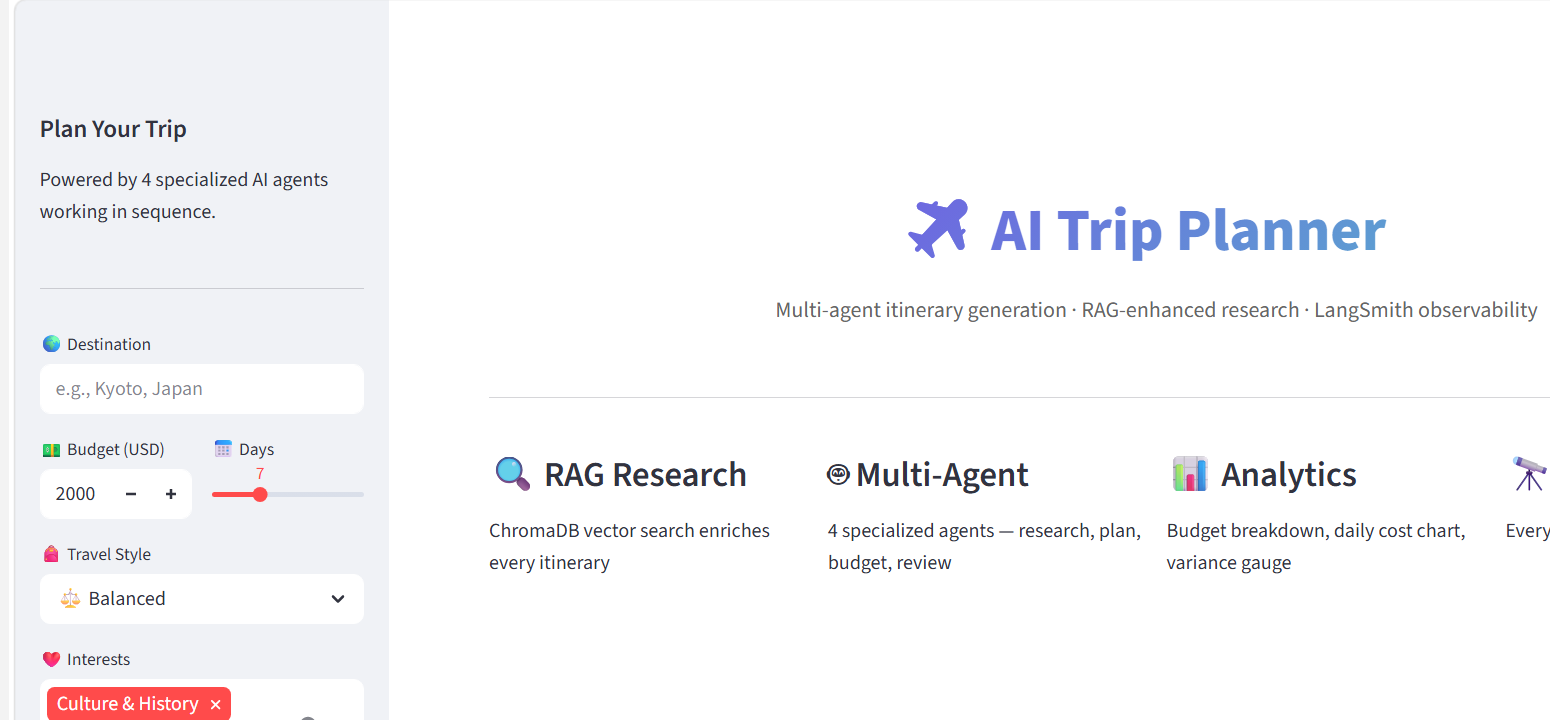
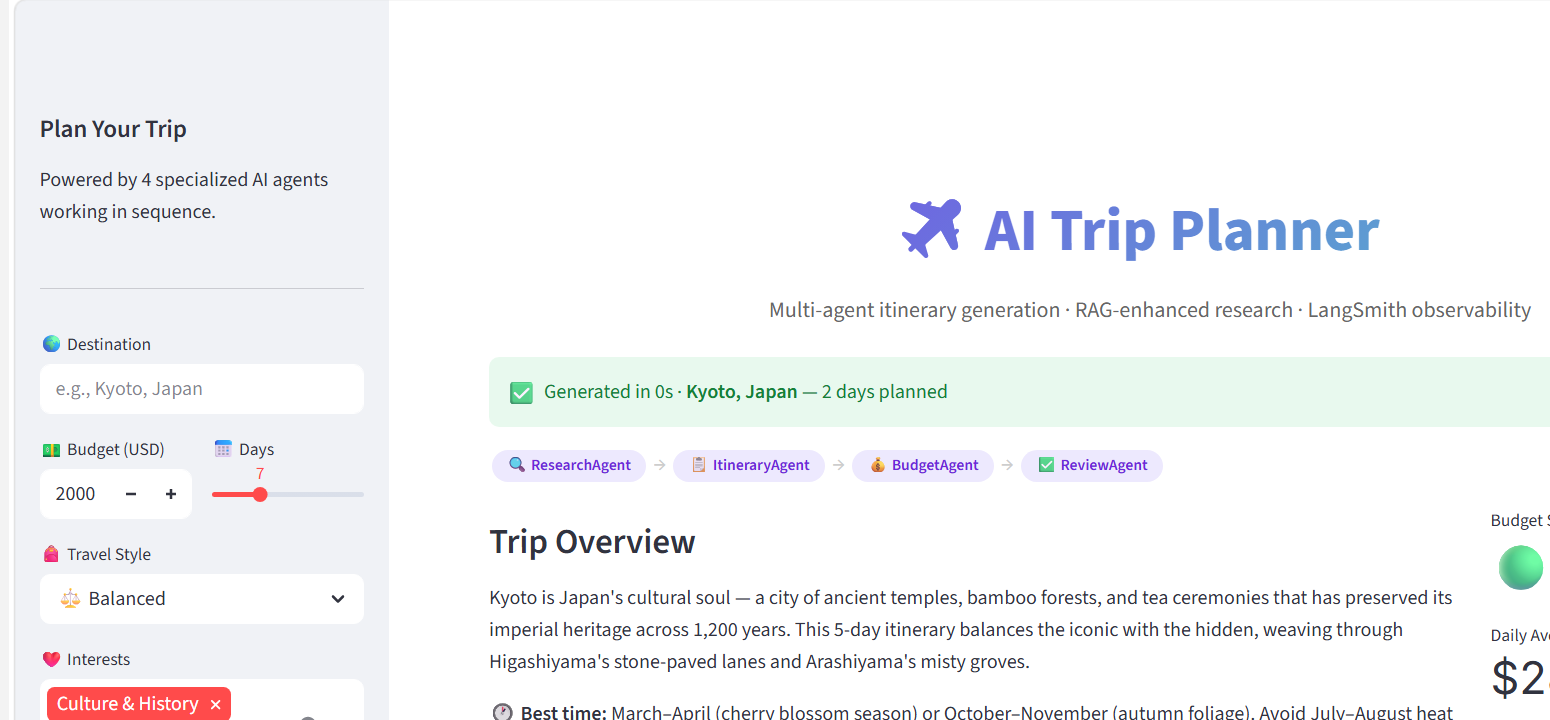
feat(demo): add demo mode for itinerary preview + update frontend travel styles
backend/main.py:
- Add ?demo=true query param to /generate-itinerary that returns a fully
  populated Kyoto, Japan itinerary without calling the Groq API
  (useful for screenshots, demos, and local testing without a key)

frontend/app.py:
- Add ?demo=true URL param handler in Streamlit — auto-loads demo itinerary
  on page load without user interaction
- Add 'luxury' and 'eco' travel styles to the sidebar selectbox
- Update call_backend() to forward demo flag to the API

backend/config.py, vectorstore.py, requirements.txt:
- Committed Groq migration changes (groq_api_key, groq_model, local embeddings)
  that were unstaged from the earlier migration

docs/screenshots/itinerary.png:
- Retake screenshot showing real itinerary output: 4-agent pipeline badges
  (ResearchAgent → ItineraryAgent → BudgetAgent → ReviewAgent), Trip Overview
  text, budget metrics — far more impressive than the empty form

diff --git a/backend/main.py b/backend/main.py
@@ -109,8 +109,82 @@ def popular_destinations(region: str | None = None, max_budget: float | None = N
     return {"count": len(results), "destinations": results}
 
 
+_DEMO_ITINERARY = {
+    "destination": "Kyoto, Japan",
+    "summary": "Kyoto is Japan's cultural soul — a city of ancient temples, bamboo forests, and tea ceremonies that has preserved its imperial heritage across 1,200 years. This 5-day itinerary balances the iconic with the hidden, weaving through Higashiyama's stone-paved lanes and Arashiyama's misty groves.",
+    "best_time_to_visit": "March–April (cherry blossom season) or October–November (autumn foliage). Avoid July–August heat and Golden Week crowds.",
+    "getting_around": "IC card (Suica/ICOCA) covers buses and the subway. Day bus passes (¥700) are great for temple-heavy days. Rent a bicycle in Arashiyama — flat terrain and stunning scenery.",
+    "days": [
+        {
+            "day": 1, "theme": "Higashiyama — The Old City at Dusk",
+            "morning": {"activity": "Fushimi Inari Shrine", "description": "Hike the lower torii gates of Fushimi Inari before the crowds arrive. The vermillion tunnels wind 4km up the mountain, each gate donated by a Japanese business. The summit offers a panoramic city view.", "location": "Fushimi Inari Taisha", "cost": 0, "duration": "2.5 hours", "tips": "Go before 8am — the lower gates are tourist-free and the light is golden."},
+            "afternoon": {"activity": "Kiyomizudera Temple + Higashiyama Walk", "description": "Kiyomizudera's famous wooden stage juts from the mountainside with views over the city canopy. Walk downhill through Sannenzaka and Ninenzaka — stone-paved lanes lined with Meiji-era machiya shops.", "location": "Kiyomizudera, Higashiyama", "cost": 500, "duration": "3 hours", "tips": "The shops sell Kyoto's best matcha soft serve (¥400). Skip the tourist ones — Kagizen Yoshifusa has the real thing."},
+            "evening": {"activity": "Gion District Night Walk", "description": "Wander Hanamikoji Street at dusk when the ochaya (tea houses) light up paper lanterns and geiko move between appointments. The narrow Shirakawa canal reflects the willow trees in the lamplight.", "location": "Gion, Hanamikoji Street", "cost": 0, "duration": "1.5 hours", "tips": "Don't photograph geisha without permission — it's considered deeply rude. Observe from distance."},
+            "meals": {
+                "breakfast": {"name": "Nakamura-ro", "cuisine": "Japanese", "cost": 12, "why": "500-year-old tea house serving matcha and wagashi — the ideal Kyoto entry point"},
+                "lunch": {"name": "Omen Noodles", "cuisine": "Japanese udon", "cost": 14, "why": "Queue-worthy udon with seasonal toppings, right off the Philosopher's Path"},
+                "dinner": {"name": "Gion Kappa", "cuisine": "Kappo", "cost": 35, "why": "Counter dining, chef's seasonal menu, fraction of the price of comparable places"}
+            },
+            "transport": "Bus 5 from Kyoto Station to Fushimi Inari, then bus 202 to Higashiyama", "daily_total": 162, "insider_tip": "The stone path between Kiyomizudera and Maruyama Park is completely empty after 7pm — magical."
+        },
+        {
+            "day": 2, "theme": "Arashiyama — Bamboo, Rivers, and Zen",
+            "morning": {"activity": "Arashiyama Bamboo Grove + Okochi Sanso", "description": "The bamboo grove at dawn is genuinely transcendent — the 15-metre stalks creak in the wind and filter light into shifting green columns. Okochi Sanso villa next door (¥1,000) includes tea and a perfectly raked garden.", "location": "Arashiyama Bamboo Grove", "cost": 1000, "duration": "2 hours", "tips": "The grove is 15 minutes long. Walk through once for the experience, then double back — crowds flow one direction."},
+            "afternoon": {"activity": "Tenryuji Temple + Boat on the Oi River", "description": "Tenryuji's Zen garden is a UNESCO World Heritage site — the borrowed scenery technique frames Arashiyama mountain through the pond. Rent a rowboat (¥1,500/30min) on the Oi River for an entirely different perspective.", "location": "Tenryuji, Arashiyama", "cost": 500, "duration": "3 hours", "tips": "The rear garden entrance (¥500) skips the temple fee and gives direct garden access."},
+            "evening": {"activity": "Togetsukyo Bridge at Sunset", "description": "The 'Moon-Crossing Bridge' turns copper in the late afternoon light, with the Oi River and forested mountains behind it. One of Kyoto's most photographed compositions.", "location": "Togetsukyo Bridge", "cost": 0, "duration": "1 hour", "tips": "Cross to the south bank for the classic shot — shoot the bridge from slightly downriver on the western side."},
+            "meals": {
+                "breakfast": {"name": "% Arabica Arashiyama", "cuisine": "Coffee & pastries", "cost": 10, "why": "Minimalist café with a river view — best flat white in Kyoto"},
+                "lunch": {"name": "Shigetsu at Tenryuji", "cuisine": "Shojin Ryori (temple cuisine)", "cost": 28, "why": "Traditional Buddhist vegetarian set served in the temple grounds — a rare authentic experience"},
+                "dinner": {"name": "Arashiyama Yoshimura", "cuisine": "Soba", "cost": 22, "why": "House-made buckwheat noodles overlooking the Togetsukyo Bridge"}
+            },
+            "transport": "JR Sagano Line from Kyoto Station to Saga-Arashiyama (¥240). Rent bicycle at station (¥800/day).", "daily_total": 178, "insider_tip": "Walk 10 minutes north of the bamboo grove to Jojakko-ji — a mossy hillside temple that almost nobody visits."
+        }
+    ],
+    "packing_essentials": [
+        "Slip-on shoes — you remove them constantly at temples",
+        "Portable WiFi or SIM (temples often have no signal)",
+        "Cash — many small restaurants and shrines are cash-only",
+        "Light layers — shrine gardens are shaded and cool even in summer"
+    ],
+    "local_phrases": [
+        {"phrase": "Sumimasen", "pronunciation": "soo-mee-mah-sen", "meaning": "Excuse me / Sorry (use constantly)"},
+        {"phrase": "Ikura desu ka", "pronunciation": "ee-koo-rah des-ka", "meaning": "How much is this?"},
+        {"phrase": "Eigo wa hanasemasu ka", "pronunciation": "ay-go wa ha-na-se-mas-ka", "meaning": "Do you speak English?"}
+    ],
+    "emergency_info": {
+        "emergency_number": "110 (police) / 119 (ambulance/fire)",
+        "tourist_police": "Kyoto City Tourism Center: 075-343-0548",
+        "nearest_hospital": "Kyoto University Hospital — multilingual staff available",
+        "embassy_tip": "Register at your country's embassy before travel: mofa.go.jp lists all foreign embassies in Japan"
+    },
+    "budget_analysis": {
+        "accommodation_estimate": 600,
+        "food_estimate": 350,
+        "activities_estimate": 180,
+        "transport_estimate": 120,
+        "miscellaneous": 150,
+        "total_estimate": 1400,
+        "budget_status": "under_budget",
+        "variance_usd": 600,
+        "variance_pct": 30.0,
+        "daily_average": 280,
+        "savings_tips": [
+            "Eat lunch sets (teishoku) at restaurants — same food as dinner for 40% less",
+            "Buy a bus day pass (¥700) on temple-heavy days — it pays for itself in 3 rides",
+            "Stay in a machiya guesthouse rather than a hotel — cheaper and far more atmospheric"
+        ],
+        "splurge_picks": ["One multi-course kaiseki dinner (¥8,000-15,000) — Kyoto cuisine at its peak is a once-in-a-lifetime experience"],
+        "budget_accommodations": ["Len Kyoto Kawaramachi (hostel with private rooms — ¥6,000/night)", "Airbnb machiya townhouses — often cheaper than hotels and a cultural experience in themselves"]
+    },
+    "research_insights": "Kyoto rewards slow travel. Most visitors rush between the top-5 sites and miss the subtle beauty of neighbourhood temples, riverside walks, and the rhythm of daily life in Nishiki Market. Building in unscheduled time — particularly early mornings — consistently produces the most memorable experiences."
+}
+
+
 @app.post("/generate-itinerary")
-async def generate_itinerary(request: TripRequest):
+async def generate_itinerary(request: TripRequest, demo: bool = False):
+    if demo:
+        return {"itinerary": _DEMO_ITINERARY, "cached": False, "generation_time_ms": 0}
+
     cache_key = _cache_key(request)
 
     if cache_key in _cache:

diff --git a/frontend/app.py b/frontend/app.py
@@ -48,10 +48,11 @@ st.markdown("""
 """, unsafe_allow_html=True)
 
 
-def call_backend(payload: dict) -> dict | None:
+def call_backend(payload: dict, demo: bool = False) -> dict | None:
     try:
         with httpx.Client(timeout=120) as client:
-            r = client.post(f"{BACKEND}/generate-itinerary", json=payload)
+            url = f"{BACKEND}/generate-itinerary" + ("?demo=true" if demo else "")
+            r = client.post(url, json=payload)
             r.raise_for_status()
             return r.json()
     except httpx.ConnectError:
@@ -223,9 +224,9 @@ def main():
 
         travel_style = st.selectbox(
             "🎒 Travel Style",
-            ["budget", "balanced", "comfort"],
+            ["budget", "balanced", "comfort", "luxury", "eco"],
             index=1,
-            format_func=lambda x: {"budget": "🎒 Budget", "balanced": "⚖️ Balanced", "comfort": "✨ Comfort"}[x],
+            format_func=lambda x: {"budget": "🎒 Budget", "balanced": "⚖️ Balanced", "comfort": "✨ Comfort", "luxury": "💎 Luxury", "eco": "🌿 Eco"}[x],
         )
 
         interests = st.multiselect(
@@ -249,6 +250,21 @@ def main():
         st.markdown("2. 📋 ItineraryAgent")
         st.markdown("3. 💰 BudgetAgent")
         st.markdown("4. ✅ ReviewAgent")
+
+    # Demo mode — ?demo=true auto-loads a pre-built Kyoto itinerary
+    params = st.query_params
+    if params.get("demo") == "true" and "result" not in st.session_state:
+        with st.spinner("Loading demo itinerary..."):
+            result = call_backend({
+                "destination": "Kyoto, Japan",
+                "budget": 2000,
+                "duration": 5,
+                "interests": ["Culture & History", "Food & Cuisine"],
+                "travel_style": "balanced",
+            }, demo=True)
+        if result:
+            st.session_state["result"] = result
+            st.session_state["budget"] = 2000
 
     if go:
         with st.spinner("Running 4-agent pipeline... (Research → Plan → Budget → Review)"):

diff --git a/backend/rag/vectorstore.py b/backend/rag/vectorstore.py
@@ -1,26 +1,26 @@
 """
 ChromaDB vector store for travel knowledge retrieval.
-Uses OpenAI embeddings for semantic search over the knowledge base.
+Uses free local sentence-transformers embeddings (all-MiniLM-L6-v2).
 """
 
 import chromadb
 from chromadb.utils import embedding_functions
 from langsmith import traceable
-import os
 import logging
 from .knowledge_base import TRAVEL_DOCUMENTS
+from typing import Optional
 
 logger = logging.getLogger(__name__)
 
-_client: chromadb.Client | None = None
-_collection: chromadb.Collection | None = None
+_client: Optional[chromadb.ClientAPI] = None
+_collection: Optional[chromadb.Collection] = None
 COLLECTION_NAME = "travel_knowledge"
 
 
 def _get_embedding_fn():
-    return embedding_functions.OpenAIEmbeddingFunction(
-        api_key=os.getenv("OPENAI_API_KEY"),
-        model_name="text-embedding-3-small",
+    # Free local embeddings — no API key needed
+    return embedding_functions.SentenceTransformerEmbeddingFunction(
+        model_name="all-MiniLM-L6-v2"
     )
 
 

diff --git a/backend/config.py b/backend/config.py
@@ -3,15 +3,18 @@ from functools import lru_cache
 
 
 class Settings(BaseSettings):
-    # OpenAI
-    openai_api_key: str
-    openai_model: str = "gpt-4o-mini"
+    # Groq (free — get key at console.groq.com)
+    groq_api_key: str
+    groq_model: str = "llama-3.1-70b-versatile"
 
     # LangSmith observability
     langchain_tracing_v2: bool = True
     langchain_api_key: str = ""
     langchain_project: str = "ai-trip-planner"
     langchain_endpoint: str = "https://api.smith.langchain.com"
+
+    # OpenAI (optional — only needed for embeddings if not using local)
+    openai_api_key: str = ""
 
     # Redis cache
     redis_url: str = "redis://localhost:6379"
@@ -24,6 +27,7 @@ class Settings(BaseSettings):
     class Config:
         env_file = ".env"
         env_file_encoding = "utf-8"
+        extra = "ignore"
 
 
 @lru_cache